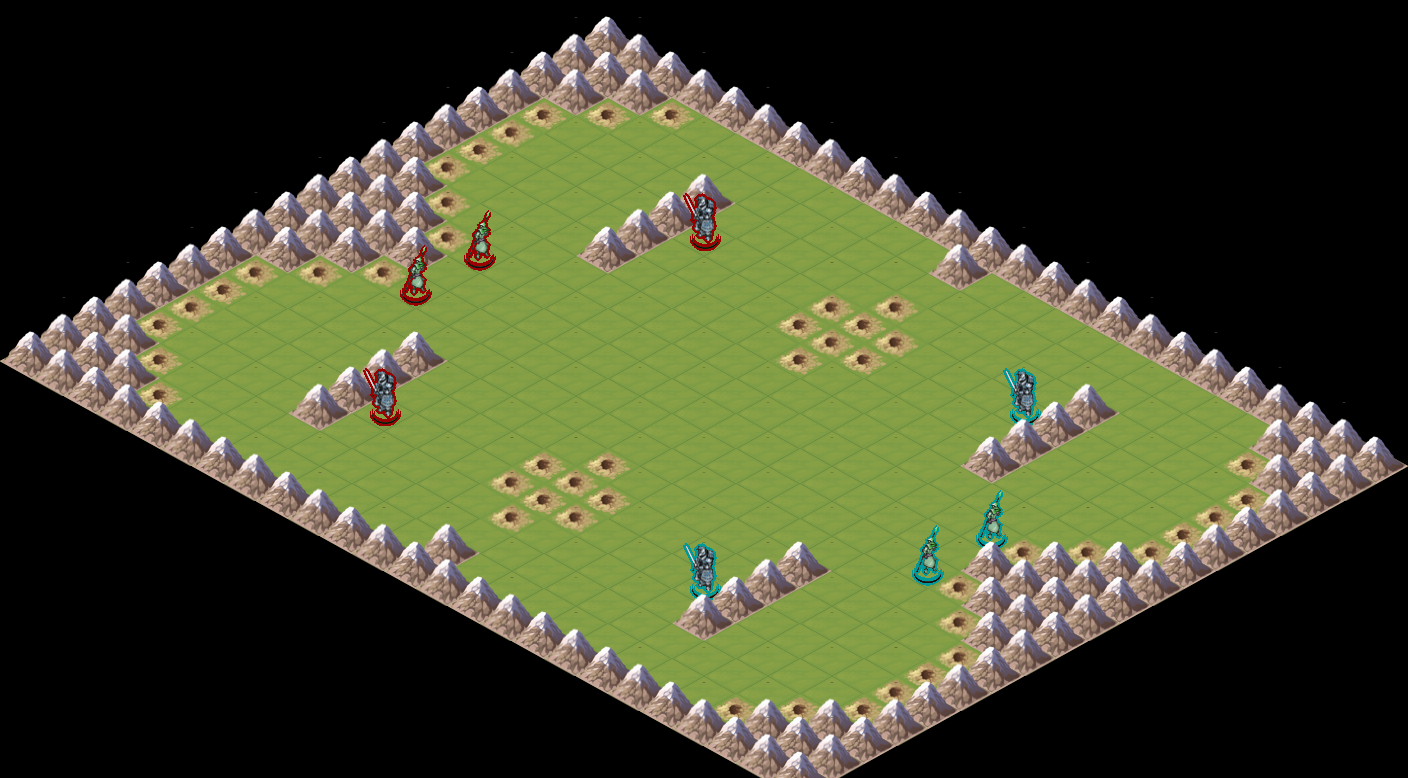
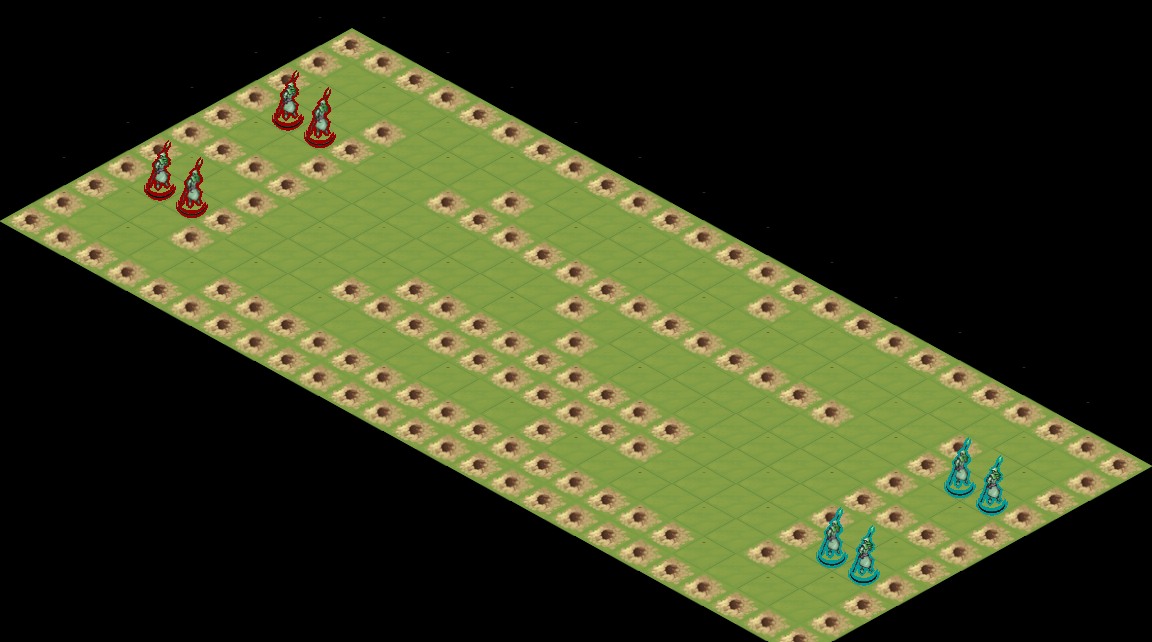
push-mania game and trying to fix windows build

diff --git a/tests/src/Mocks/Griddly/Core/MockGrid.cpp b/tests/src/Mocks/Griddly/Core/MockGrid.cpp
@@ -7,7 +7,7 @@ class MockGrid : public Grid {
   MockGrid() : Grid() {}
 
   MOCK_METHOD(void, resetMap, (uint32_t width, uint32_t height), ());
-  MOCK_METHOD(void, setGlobalVariables, (((std::unordered_map<std::string, std::unordered_map<uint32_t, int32_t>>))), ());
+  MOCK_METHOD(void, setGlobalVariables, ((std::unordered_map<std::string, std::unordered_map<uint32_t, int32_t>>)), ());
   MOCK_METHOD(void, resetGlobalVariables, ((std::unordered_map<std::string, GlobalVariableDefinition>)), ());
   MOCK_METHOD((std::unordered_map<uint32_t, int32_t>), update, (), ());
 

diff --git a/docs/games/Push_Mania/index.rst b/docs/games/Push_Mania/index.rst
@@ -14,6 +14,7 @@ Levels
 
    * - 
      - Vector
+     - Sprite2D
      - Block2D
      - Isometric
    * - .. list-table:: 
@@ -21,8 +22,9 @@ Levels
           * - Level ID
             - 0
           * - Size
-            - 25x10
+            - 10x11
      - .. thumbnail:: img/Push_Mania-level-Vector-0.png
+     - .. thumbnail:: img/Push_Mania-level-Sprite2D-0.png
      - .. thumbnail:: img/Push_Mania-level-Block2D-0.png
      - .. thumbnail:: img/Push_Mania-level-Isometric-0.png
    * - .. list-table:: 
@@ -30,8 +32,9 @@ Levels
           * - Level ID
             - 1
           * - Size
-            - 25x19
+            - 25x11
      - .. thumbnail:: img/Push_Mania-level-Vector-1.png
+     - .. thumbnail:: img/Push_Mania-level-Sprite2D-1.png
      - .. thumbnail:: img/Push_Mania-level-Block2D-1.png
      - .. thumbnail:: img/Push_Mania-level-Isometric-1.png
 
@@ -122,37 +125,32 @@ Objects
    :header-rows: 2
 
    * - Name ->
-     - mountain
      - hole
-     - healer
-     - warrior
+     - pusher
    * - Map Char ->
-     - M
      - H
-     - h
-     - w
+     - p
    * - Vector
-     - .. image:: img/Push_Mania-tile-mountain-Vector.png
      - .. image:: img/Push_Mania-tile-hole-Vector.png
-     - .. image:: img/Push_Mania-tile-healer-Vector.png
-     - .. image:: img/Push_Mania-tile-warrior-Vector.png
+     - .. image:: img/Push_Mania-tile-pusher-Vector.png
+   * - Sprite2D
+     - .. image:: img/Push_Mania-tile-hole-Sprite2D.png
+     - .. image:: img/Push_Mania-tile-pusher-Sprite2D.png
    * - Block2D
-     - .. image:: img/Push_Mania-tile-mountain-Block2D.png
      - .. image:: img/Push_Mania-tile-hole-Block2D.png
-     - .. image:: img/Push_Mania-tile-healer-Block2D.png
-     - .. image:: img/Push_Mania-tile-warrior-Block2D.png
+     - .. image:: img/Push_Mania-tile-pusher-Block2D.png
    * - Isometric
-     - .. image:: img/Push_Mania-tile-mountain-Isometric.png
      - .. image:: img/Push_Mania-tile-hole-Isometric.png
-     - .. image:: img/Push_Mania-tile-healer-Isometric.png
-     - .. image:: img/Push_Mania-tile-warrior-Isometric.png
+     - .. image:: img/Push_Mania-tile-pusher-Isometric.png
 
 
 Actions
 -------
 
-attack
-^^^^^^
+drain_health
+^^^^^^^^^^^^
+
+:Internal: This action can only be called from other actions, not by the player.
 
 .. list-table:: 
    :header-rows: 1
@@ -160,16 +158,10 @@ attack
    * - Action Id
      - Mapping
    * - 1
-     - Left
-   * - 2
-     - Up
-   * - 3
-     - Right
-   * - 4
-     - Down
+     - Reduce the health
 
 
-heal
+push
 ^^^^
 
 .. list-table:: 
@@ -205,34 +197,6 @@ move
      - Down
 
 
-unit_counter
-^^^^^^^^^^^^
-
-:Internal: This action can only be called from other actions, not by the player.
-
-.. list-table:: 
-   :header-rows: 1
-
-   * - Action Id
-     - Mapping
-   * - 1
-     - The only action here is to increment the unit count
-
-
-drain_health
-^^^^^^^^^^^^
-
-:Internal: This action can only be called from other actions, not by the player.
-
-.. list-table:: 
-   :header-rows: 1
-
-   * - Action Id
-     - Mapping
-   * - 1
-     - Reduce the health
-
-
 YAML
 ----
 
@@ -243,9 +207,9 @@ YAML
      Name: Push Mania
      Description: Game environment ported from https://github.com/GAIGResearch/Stratega.
      Observers:
-       # Sprite2D:
-       #   TileSize: 24
-       #   BackgroundTile:
+       Sprite2D:
+         TileSize: 32
+         BackgroundTile: oryx/oryx_tiny_galaxy/tg_sliced/tg_world_fixed/img23.png
        Isometric:
          TileSize: [64, 64]
          BackgroundTile: stratega/plain.png
@@ -258,55 +222,34 @@ YAML
        Count: 2
      Termination:
        Lose:
-         - eq: [unit_count, 0] # If the player has no bases
+         - eq: [pusher:count, 0] # Player loses its king, it loses the game
      Levels:
        - |
-         M  M  M  M  M  M  M  M  M  M  M  M  M  M  M  M  M  M  M  M  M  M  M  M  M
-         M  M  M  H  .  .  .  .  .  .  .  .  M  .  .  .  .  .  .  .  .  .  M  M  M
-         M  M  H  .  .  .  .  .  .  .  .  .  .  .  .  .  .  .  .  .  .  .  H  M  M
-         M  H  .  .  h1 .  M  .  .  .  .  .  H  .  .  .  .  .  M  .  .  .  .  H  M
-         M  H  .  .  .  .  M  w1 .  .  .  H  H  H  .  .  .  w2 M  .  h2 .  .  H  M
-         M  H  .  .  h1 .  M  w1 .  .  .  H  H  H  .  .  .  w2 M  .  .  .  .  H  M
-         M  H  .  .  .  .  M  .  .  .  .  .  H  .  .  .  .  .  M  .  h2 .  .  H  M
-         M  M  H  .  .  .  .  .  .  .  .  .  .  .  .  .  .  .  .  .  .  .  H  M  M
-         M  M  M  H  .  .  .  .  .  .  .  .  M  .  .  .  .  .  .  .  .  H  M  M  M
-         M  M  M  M  M  M  M  M  M  M  M  M  M  M  M  M  M  M  M  M  M  M  M  M  M
+         H  H  H  H  H  H  H  H  H  H
+         H  .  p1 .  .  .  .  .  .  H
+         H  p1 .  .  .  .  .  .  .  H
+         H  .  .  .  .  .  .  .  .  H
+         H  .  .  .  H  H  .  .  .  H
+         H  .  .  .  H  H  .  .  .  H
+         H  .  .  .  H  H  .  .  .  H
+         H  .  .  .  .  .  .  .  .  H
+         H  .  .  .  .  .  .  .  p2 H
+         H  .  .  .  .  .  .  p2 .  H
+         H  H  H  H  H  H  H  H  H  H
        - |
-         M  M  M  M  M  M  M  M  M  M  M  M  M  M  M  M  M  M  M  M  M  M  M  M  M
-         M  M  M  H  .  .  .  .  .  .  .  .  M  .  .  .  .  .  .  .  .  .  M  M  M
-         M  M  H  .  .  .  .  .  .  .  .  .  .  .  .  .  .  .  .  .  .  .  H  M  M
-         M  H  .  .  .  .  M  .  .  .  .  .  H  .  .  .  .  .  M  .  .  .  .  H  M
-         M  H  .  .  .  .  M  w1 .  .  .  H  H  H  .  .  .  w2 M  .  .  .  .  H  M
-         M  H  .  .  .  .  M  .  .  .  .  H  H  H  .  .  .  .  M  .  .  .  .  H  M
-         M  H  .  .  .  .  M  .  .  .  .  .  H  .  .  .  .  .  M  .  .  .  .  H  M
-         M  M  H  .  .  .  .  .  .  .  .  .  .  .  .  .  .  .  .  .  .  .  H  M  M
-         M  M  M  H  h1 .  .  .  .  .  .  .  .  .  .  .  .  .  .  .  h2 H  M  M  M
-         M  M  M  M  .  .  .  .  .  .  .  .  .  .  .  .  .  .  .  .  .  M  M  M  M
-         M  M  M  H  h1 .  .  .  .  .  .  .  .  .  .  .  .  .  .  .  h2 H  M  M  M
-         M  M  H  .  .  .  .  .  .  .  .  .  .  .  .  .  .  .  .  .  .  .  H  M  M
-         M  H  .  .  .  .  M  .  .  .  .  .  H  .  .  .  .  .  M  .  .  .  .  H  M
-         M  H  .  .  .  .  M  .  .  .  .  H  H  H  .  .  .  .  M  .  .  .  .  H  M
-         M  H  .  .  .  .  M  w1 .  .  .  H  H  H  .  .  .  w2 M  .  .  .  .  H  M
-         M  H  .  .  .  .  M  .  .  .  .  .  H  .  .  .  .  .  M  .  .  .  .  H  M
-         M  M  H  .  .  .  .  .  .  .  .  .  .  .  .  .  .  .  .  .  .  .  H  M  M
-         M  M  M  H  .  .  .  .  .  .  .  .  M  .  .  .  .  .  .  .  .  H  M  M  M
-         M  M  M  M  M  M  M  M  M  M  M  M  M  M  M  M  M  M  M  M  M  M  M  M  M
+         H  H  H  H  H  H  H  H  H  H  H  H  H  H  H  H  H  H  H  H  H  H  H  H  H
+         H  .  .  .  .  .  .  .  .  .  .  .  .  .  H  .  .  .  .  .  .  .  .  .  H
+         H  .  .  H  .  .  .  H  .  .  .  .  .  .  .  .  .  .  .  .  .  H  .  .  H
+         H  p1 p1 H  .  .  H  H  H  H  H  H  H  H  H  H  H  H  H  .  .  H  p2 p2 H
+         H  .  .  H  .  .  .  .  .  .  .  H  .  .  .  .  .  .  .  .  .  H  .  .  H
+         H  H  H  H  .  .  .  .  .  .  .  .  H  .  .  .  .  .  .  .  .  H  H  H  H
+         H  .  .  H  .  .  .  .  H  H  H  H  H  H  H  H  H  .  .  .  .  H  .  .  H
+         H  p1 p1 H  .  .  .  H  H  H  H  H  H  H  H  H  H  .  .  .  .  H  p2 p2 H
+         H  .  .  H  .  .  .  .  .  .  .  .  .  .  H  .  .  .  .  .  .  H  .  .  H
+         H  .  .  .  .  H  H  H  H  H  H  H  H  H  H  H  H  H  H  H  .  .  .  .  H
+         H  H  H  H  H  H  H  H  H  H  H  H  H  H  H  H  H  H  H  H  H  H  H  H  H
 
    Actions:
-     # Just a counter for the number of units per player
-     - Name: unit_counter
-       InputMapping:
-         Internal: true
-         Inputs:
-           1:
-             Description: "The only action here is to increment the unit count"
-       Behaviours:
-         - Src:
-             Object: [healer, warrior]
-             Commands:
-               - incr: unit_count
-           Dst:
-             Object: [healer, warrior]
 
      # Reduce all units health by an amount every 10 turns
      - Name: drain_health
@@ -317,9 +260,9 @@ YAML
              Description: "Reduce the health"
        Behaviours:
          - Src:
-             Object: [healer, warrior]
+             Object: pusher
              Commands:
-               - sub: [health, 25]
+               - sub: [health, 10]
                # if the health is 0 then remove the player
                - exec:
                    Action: drain_health
@@ -329,15 +272,16 @@ YAML
                    Arguments: [health, 1]
                    Commands:
                      - remove: true
-                     - decr: unit_count
+                     - reward: -1
+
            Dst:
-             Object: [healer, warrior]
+             Object: pusher
 
      - Name: move
        Behaviours:
          # Healer and warrior can move in empty space
          - Src:
-             Object: [healer, warrior]
+             Object: pusher
              Commands:
                - mov: _dest
            Dst:
@@ -345,62 +289,32 @@ YAML
 
          # Healer and warrior can fall into holes
          - Src:
-             Object: [healer, warrior]
+             Object: pusher
              Commands:
                - remove: true
-               - decr: unit_count
+               - reward: -1
            Dst:
              Object: hole
 
-     - Name: heal
+     - Name: push
        Behaviours:
-         # Healer can heal adjacent warriors and other healers
+         # Pushers can push other pushers
          - Src:
-             # Can only heal units on your own team
-             Preconditions:
-               - eq: [src._playerId, dst._playerId]
-             Object: healer
+             Object: pusher
+             Commands: 
+               - mov: _dest
            Dst:
-             Object: [healer, warrior]
+             Object: pusher
              Commands:
-               - add: [health, 100]
-
-     - Name: attack
-       Behaviours:
-         # Warrior can damage adjacent warriors and healers
-         - Src:
-             # Can only attack units of different players
-             Preconditions:
-               - neq: [src._playerId, dst._playerId]
-             Object: warrior
-           Dst:
-             Object: [healer, warrior]
-             Commands:
-               - sub: [health, 25]
-               - lt:
-                   Arguments: [health, 1]
-                   Commands:
-                     - remove: true
-                     - decr: unit_count
+               - cascade: _dest
 
    Objects:
-     - Name: mountain
-       MapCharacter: M
-       Observers:
-         # Sprite2D:
-         #   - Image: oryx/oryx_tiny_galaxy/tg_sliced/tg_items/tg_items_crystal_green.png
-         Block2D:
-           - Shape: triangle
-             Color: [0.0, 1.0, 0.0]
-             Scale: 1.0
-         Isometric:
-           - Image: stratega/rock.png
 
      - Name: hole
        MapCharacter: H
        Observers:
-         # Sprite2D:
-         #   - Image: oryx/oryx_tiny_galaxy/tg_sliced/tg_monsters/tg_monsters_jelly_d1.png
+         Sprite2D:
+           - Image: oryx/oryx_tiny_galaxy/tg_sliced/tg_world_fixed/img343.png
          Block2D:
            - Shape: square
              Color: [0.6, 0.2, 0.2]
@@ -408,8 +322,8 @@ YAML
          Isometric:
            - Image: stratega/hole.png
 
-     - Name: healer
-       MapCharacter: h
+     - Name: pusher
+       MapCharacter: p
        Variables:
          - Name: health
            InitialValue: 150
@@ -417,37 +331,14 @@ YAML
          - Action: drain_health
            ActionId: 1
            Delay: 50
-         - Action: unit_counter
-           ActionId: 1
        Observers:
-         # Sprite2D:
-         #   - Image: oryx/oryx_tiny_galaxy/tg_sliced/tg_monsters/tg_monsters_crawler_queen_d1.png
+         Sprite2D:
+           - Image: oryx/oryx_tiny_galaxy/tg_sliced/tg_monsters/tg_monsters_astronaut_l1.png
          Block2D:
-           - Shape: square
-             Color: [0.2, 0.2, 0.6]
+           - Shape: triangle
+             Color: [0.2, 0.6, 0.2]
              Scale: 1.0
          Isometric:
            - Image: stratega/healer.png
-
-     - Name: warrior
-       MapCharacter: w
-       Variables:
-         - Name: health
-           InitialValue: 200
-       InitialActions:
-         - Action: drain_health
-           ActionId: 1
-           Delay: 50
-         - Action: unit_counter
-           ActionId: 1
-       Observers:
-         # Sprite2D:
-         #   - Image: oryx/oryx_tiny_galaxy/tg_sliced/tg_monsters/tg_monsters_beast_d1.png
-         Block2D:
-           - Color: [0.2, 0.6, 0.6]
-             Shape: square
-             Scale: 0.8
-         Isometric:
-           - Image: stratega/basicCloseRange.png
 
 
